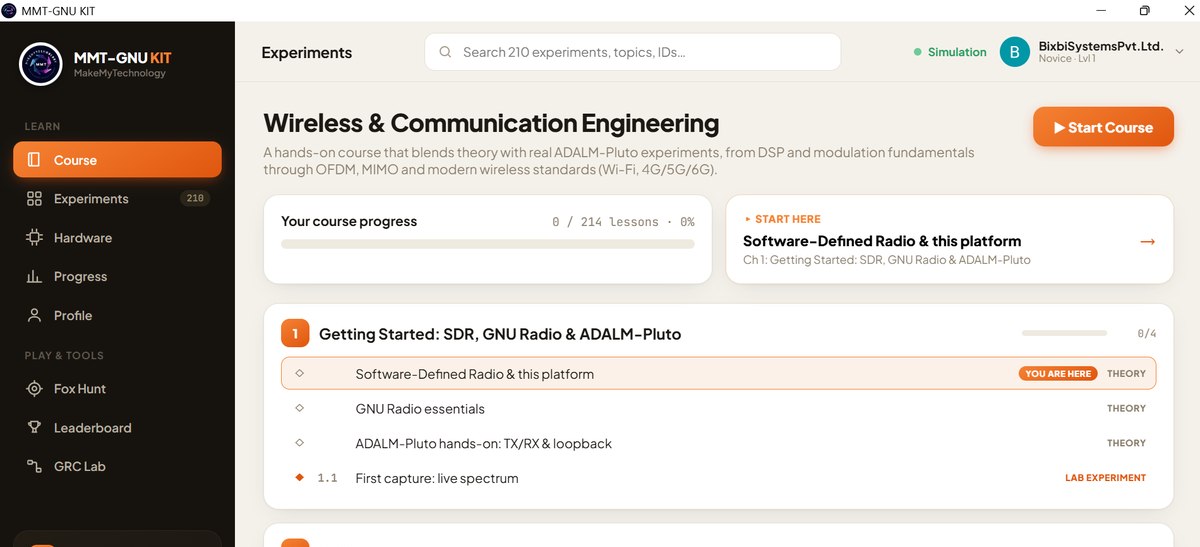
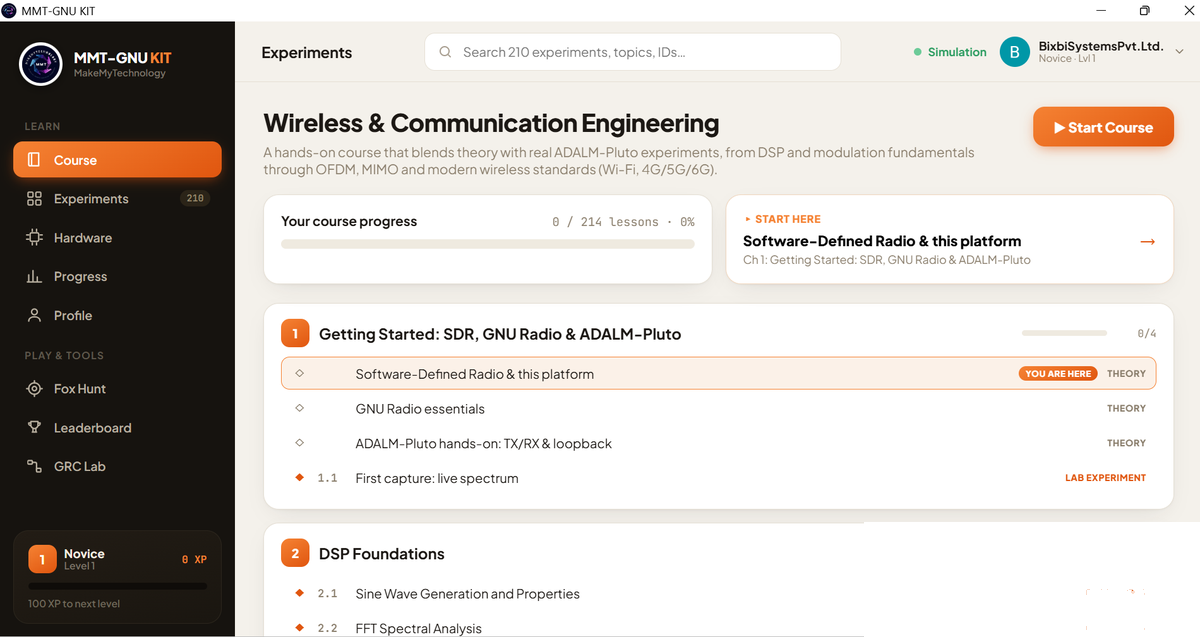
GNU Kit: use full (uncropped) screenshots, watermark removed cleanly
Revert the bottom crop — restore the full-height GNU Kit screenshots and
remove the "Activate Windows" watermark by inpainting + background snap
instead of cropping, so no content is cut off. Fix the hero aspect ratio.

diff --git a/src/app/gnu-radio/page.tsx b/src/app/gnu-radio/page.tsx
@@ -157,7 +157,7 @@ export default function GnuRadioPage() {
                   src="/gnu-course.png"
                   alt="MMT-GNU Kit — the Wireless & Communication Engineering course home, showing the guided chapter list and 210-experiment catalog."
                   width={1200}
-                  height={547}
+                  height={637}
                   className="w-full h-auto block"
                   priority
                 />
